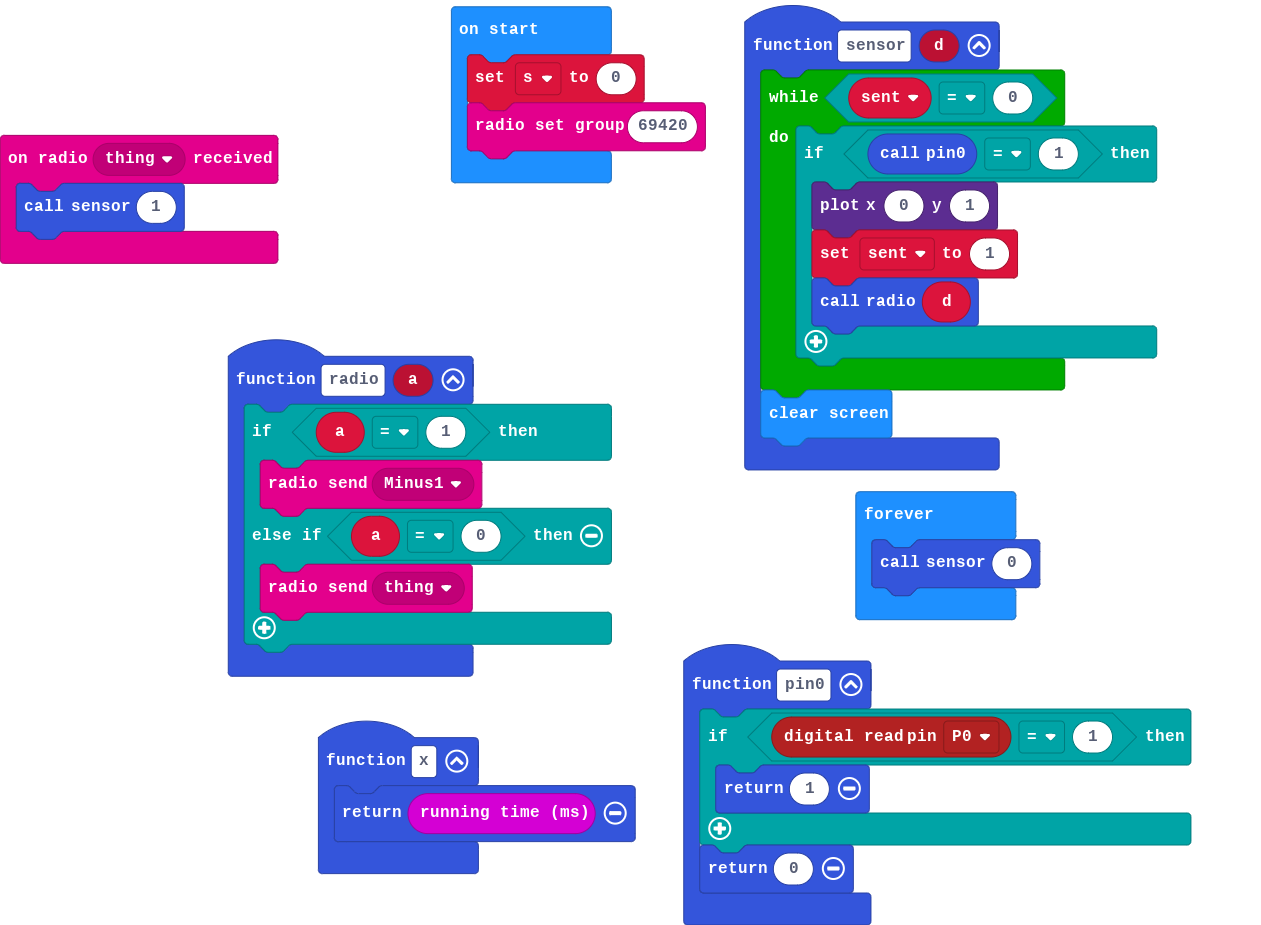
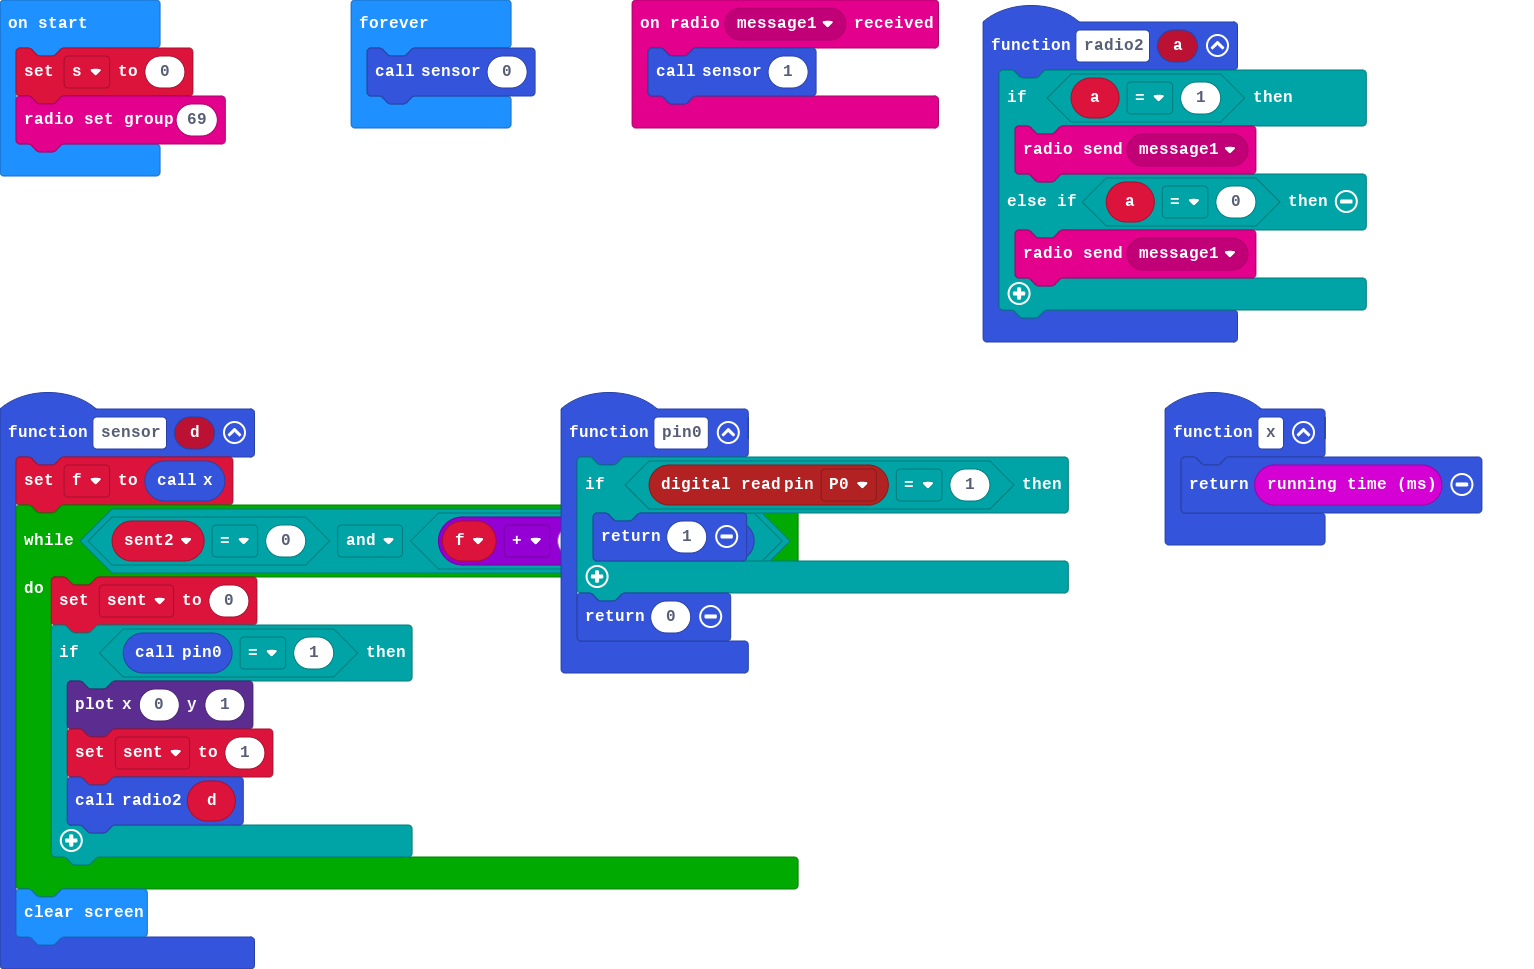
Update pxt.json, main.blocks, main.ts

diff --git a/main.ts b/main.ts
@@ -4,9 +4,6 @@ enum RadioMessage {
     Plus1 = 44153,
     message1 = 49434
 }
-radio.onReceivedMessage(RadioMessage.thing, function () {
-    sensor(1)
-})
 function radio2 (a: number) {
     if (a == 1) {
         radio.sendMessage(RadioMessage.Minus1)
@@ -15,8 +12,10 @@ function radio2 (a: number) {
     }
 }
 function sensor (d: number) {
-    while (sent == 0) {
-        let sent = 0;
+    let sent2 = 0
+    f = x()
+    while (sent2 == 0 && f + 500 > x()) {
+        sent = 0
         if (pin0() == 1) {
             led.plot(0, 1)
             sent = 1
@@ -34,9 +33,13 @@ function pin0 () {
     }
     return 0
 }
+radio.onReceivedMessage(RadioMessage.thing, function () {
+    sensor(1)
+})
 let sent = 0
+let f = 0
 let s = 0
-radio.setGroup(69420)
+radio.setGroup(69)
 basic.forever(function () {
     sensor(0)
 })
